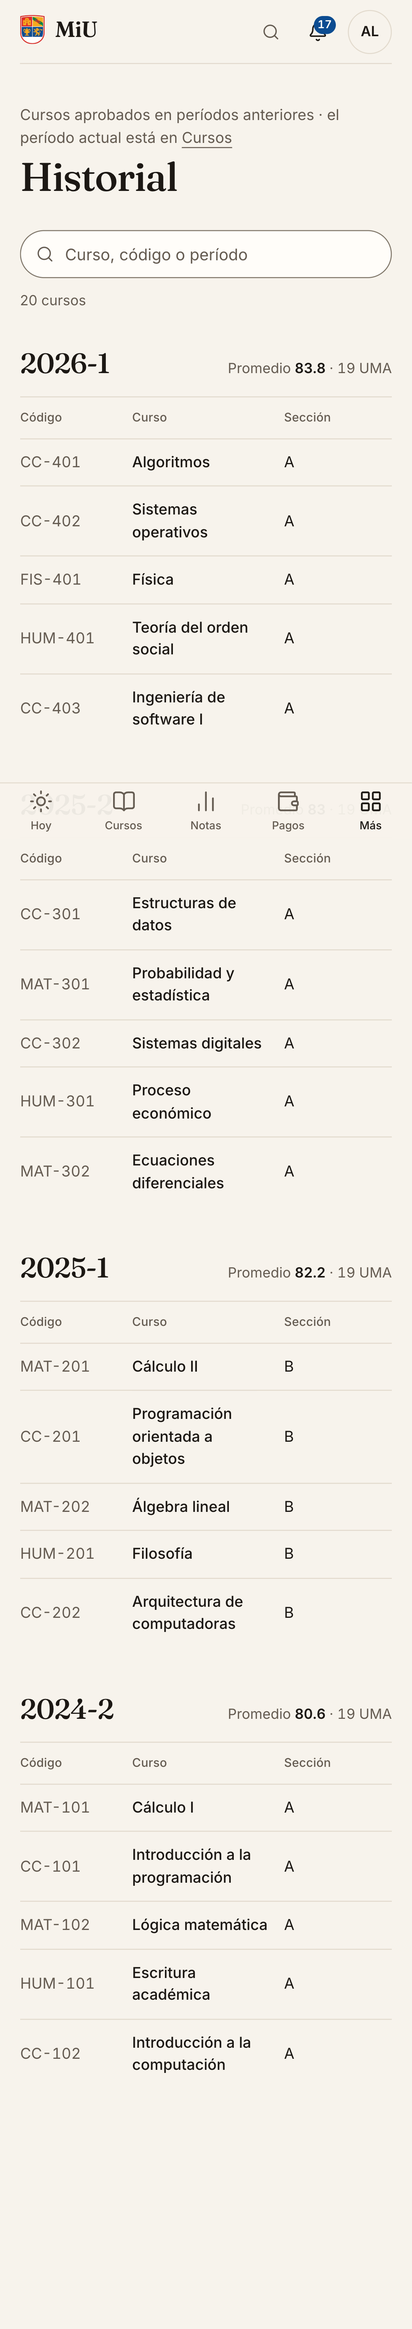
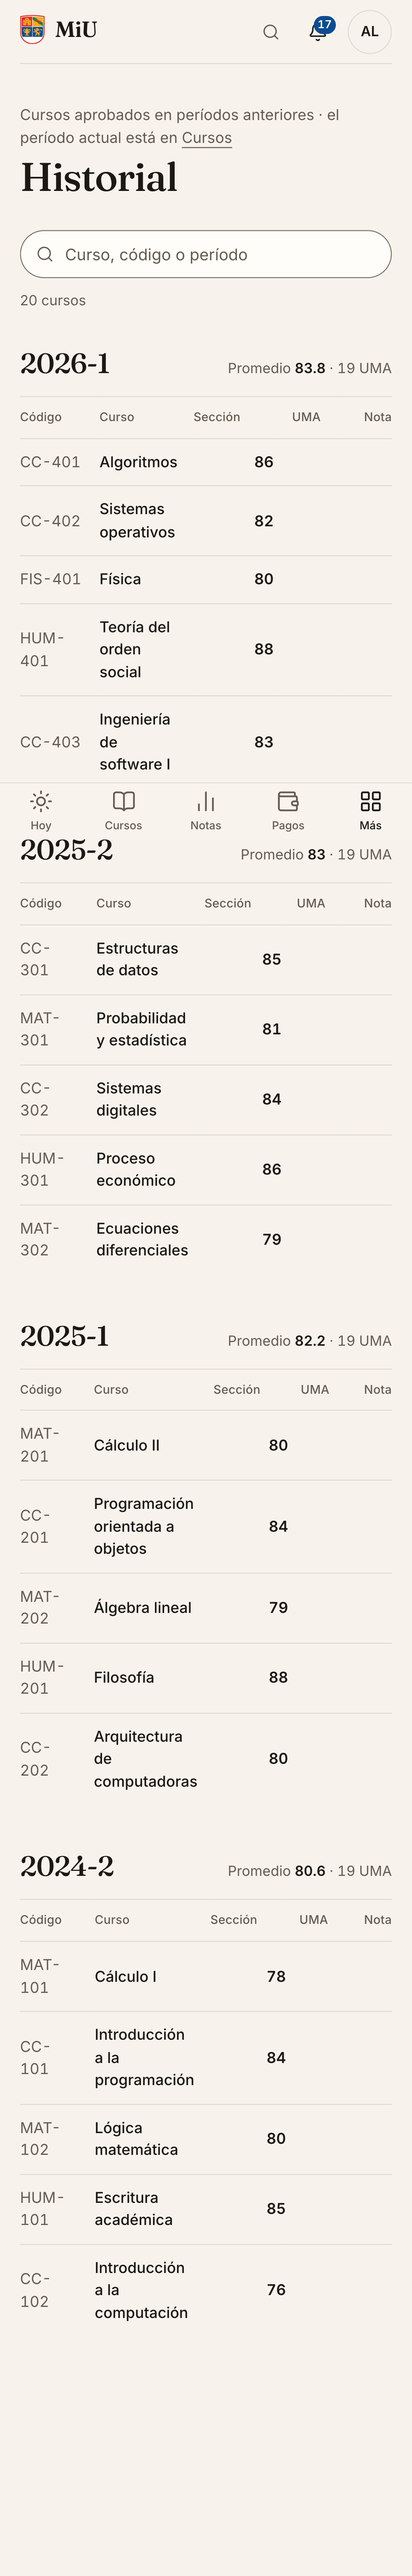
fix(historial): keep the grade visible on phones

diff --git a/src/features/historial/history-view.tsx b/src/features/historial/history-view.tsx
@@ -59,11 +59,11 @@ export function HistoryView({ courses }: { courses: PastCourse[] }) {
               role="region"
               aria-label={`Cursos de ${t.periodo}`}
             >
-              <table className="w-full min-w-[520px] text-left text-[15px] tabular">
+              <table className="w-full text-left text-[15px] tabular">
                 <caption className="sr-only">Cursos de {t.periodo}</caption>
                 <thead className="text-caption text-fg-muted">
                   <tr className="border-y border-border">
-                    <th scope="col" className="w-28 py-3 pr-4 font-medium">
+                    <th scope="col" className="w-24 py-3 pr-4 font-medium sm:w-28">
                       Código
                     </th>
                     <th scope="col" className="py-3 pr-4 font-medium">
@@ -87,8 +87,8 @@ export function HistoryView({ courses }: { courses: PastCourse[] }) {
                       <th scope="row" className="py-3 pr-4 font-medium">
                         {c.nombre}
                       </th>
-                      <td className="py-3 pr-4">{c.seccion}</td>
-                      <td className="py-3 pr-4 text-right">{c.uma}</td>
+                      <td className="hidden py-3 pr-4 sm:table-cell">{c.seccion}</td>
+                      <td className="hidden py-3 pr-4 text-right sm:table-cell">{c.uma}</td>
                       <td className="py-3 text-right font-semibold">{c.nota}</td>
                     </tr>
                   ))}
